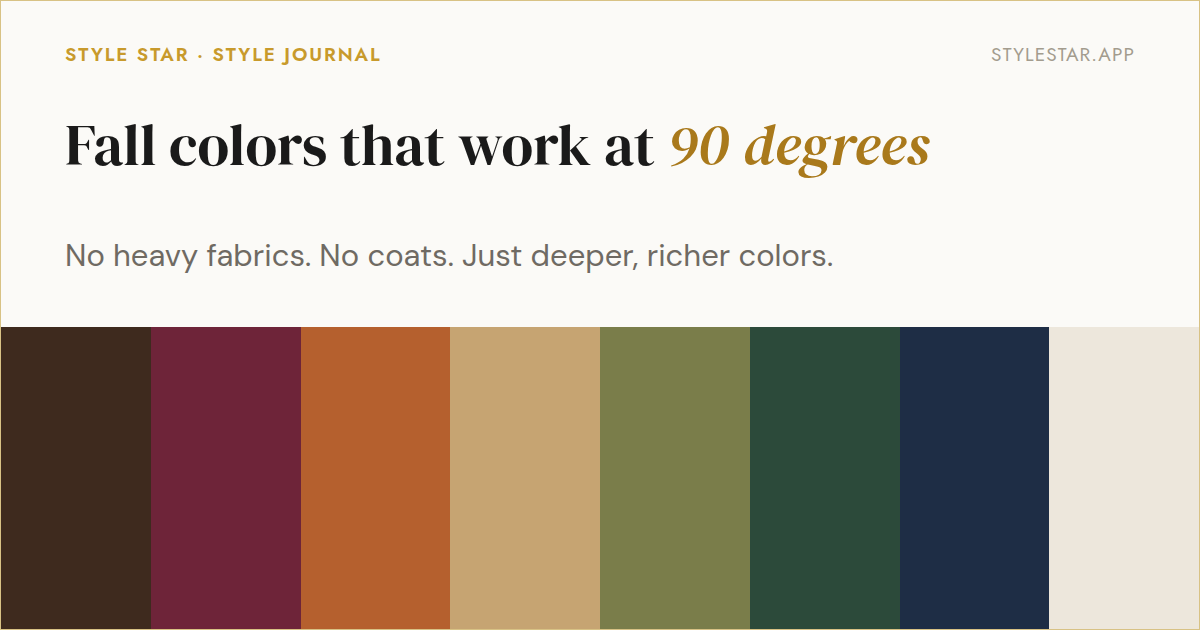
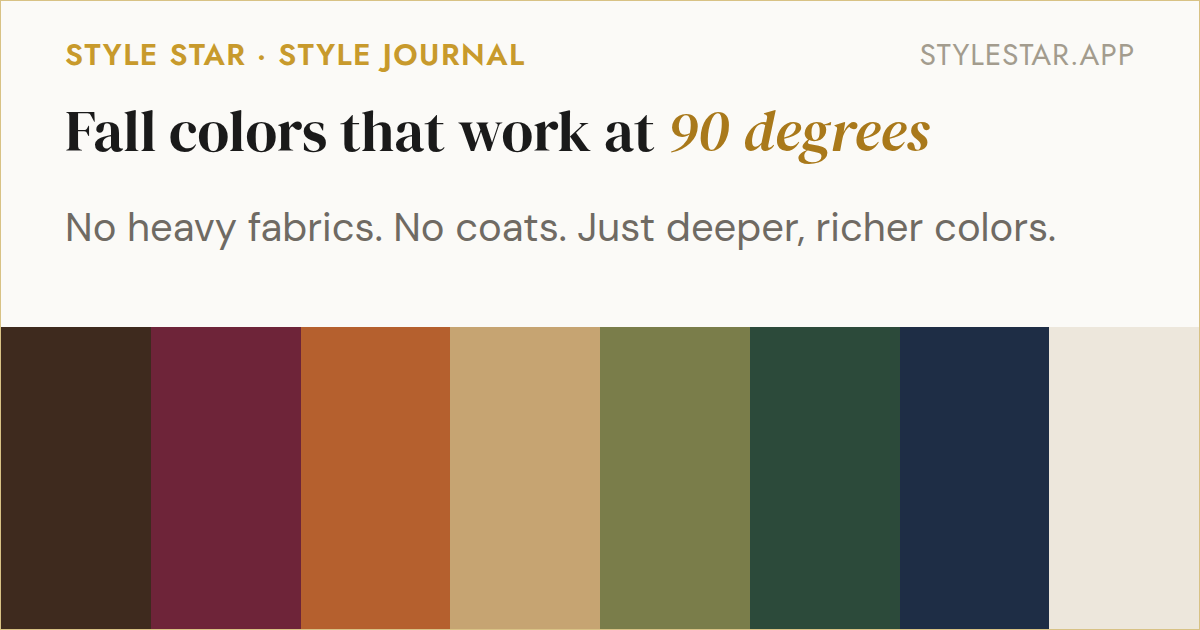
Substantially enlarge the top labels and remaining text on both share cards
Her second look: the top branding row (STYLE STAR · STYLE JOURNAL / stylestar.app)
was still unreadable at 19px, and the sub-lines and slider text on the personal-
style card still felt small even after the first pass.

Bumped hard this round rather than incrementally: top labels 19->30px, card 1's
sub-line 35->44px, slider category labels 19->28px, slider words 29->40px, card
2's sub-line 31->40px. Re-measured and re-laid out the slider block (tighter
gaps, not smaller text) so all three sliders fit inside the 630px card with 10px
to spare instead of clipping off the bottom, which is what a naive size bump did
on the first attempt.

Verified the same way as before: downscaled the actual rendered PNG to 278px
wide, the real width these show at on the article page, and confirmed every
word - including the top labels - reads clearly at that size, not just in the
full 1200px preview.

Claude-Session: https://claude.ai/code/session_01WUZ1Tmh4cbq1RRcXZfVcnT

diff --git a/scratchpad/ogcards/card1-spectrum.html b/scratchpad/ogcards/card1-spectrum.html
@@ -10,23 +10,23 @@
 *{margin:0;padding:0;box-sizing:border-box}
 html,body{width:1200px;height:630px;background:#FBFAF7;font-family:'DM Sans',sans-serif;overflow:hidden}
 .card{width:1200px;height:630px;background:#FBFAF7;border:1px solid #D8C285;position:relative}
-.top{position:absolute;top:40px;left:64px;right:64px;display:flex;justify-content:space-between;align-items:baseline}
-.lbl-l{font-family:'Jost';font-weight:600;font-size:19px;letter-spacing:.1em;color:#C89A2C;text-transform:uppercase}
-.lbl-r{font-family:'Jost';font-weight:400;font-size:19px;letter-spacing:.06em;color:#a39c8e;text-transform:uppercase}
-.headline{position:absolute;top:112px;left:64px;right:64px;font-family:'DM Serif Display',serif;font-weight:400;font-size:64px;color:#1a1a1a;line-height:1.08}
+.top{position:absolute;top:32px;left:64px;right:64px;display:flex;justify-content:space-between;align-items:baseline}
+.lbl-l{font-family:'Jost';font-weight:600;font-size:30px;letter-spacing:.05em;color:#C89A2C;text-transform:uppercase}
+.lbl-r{font-family:'Jost';font-weight:500;font-size:30px;letter-spacing:.03em;color:#a39c8e;text-transform:uppercase}
+.headline{position:absolute;top:98px;left:64px;right:64px;font-family:'DM Serif Display',serif;font-weight:400;font-size:64px;color:#1a1a1a;line-height:1.08}
 .headline i{font-style:italic;color:#a9791b}
-.sub{position:absolute;top:232px;left:64px;right:64px;font-family:'DM Sans',sans-serif;font-weight:500;font-size:35px;color:#6f6a63}
-.sliders{position:absolute;top:320px;left:64px;right:64px}
-.slider{margin-bottom:22px}
+.sub{position:absolute;top:202px;left:64px;right:64px;font-family:'DM Sans',sans-serif;font-weight:500;font-size:44px;color:#6f6a63}
+.sliders{position:absolute;top:272px;left:64px;right:64px}
+.slider{margin-bottom:10px}
 .slider:last-child{margin-bottom:0}
-.slabel{font-family:'Jost';font-weight:600;font-size:19px;letter-spacing:.08em;color:#C89A2C;text-transform:uppercase;margin-bottom:13px}
+.slabel{font-family:'Jost';font-weight:600;font-size:28px;letter-spacing:.06em;color:#C89A2C;text-transform:uppercase;margin-bottom:10px}
 .srow{display:flex;align-items:center}
-.sword{font-family:'Jost';font-weight:600;font-size:29px;letter-spacing:.02em;color:#2a2620;text-transform:uppercase;white-space:nowrap}
-.sword.left{margin-right:24px}
-.sword.right{margin-left:24px}
+.sword{font-family:'Jost';font-weight:600;font-size:40px;letter-spacing:.01em;color:#2a2620;text-transform:uppercase;white-space:nowrap}
+.sword.left{margin-right:22px}
+.sword.right{margin-left:22px}
 .track{flex:1;height:2px;background:#E4DCC8;position:relative}
-.tick{position:absolute;top:-5px;width:2px;height:12px;background:#E4DCC8}
-.dot{position:absolute;top:-10px;width:22px;height:22px;border-radius:50%;background:#C89A2C;transform:translateX(-50%)}
+.tick{position:absolute;top:-6px;width:2px;height:14px;background:#E4DCC8}
+.dot{position:absolute;top:-12px;width:26px;height:26px;border-radius:50%;background:#C89A2C;transform:translateX(-50%)}
 </style></head>
 <body>
 <div class="card">

diff --git a/scratchpad/ogcards/card2-palette.html b/scratchpad/ogcards/card2-palette.html
@@ -9,12 +9,12 @@
 *{margin:0;padding:0;box-sizing:border-box}
 html,body{width:1200px;height:630px;background:#FBFAF7;font-family:'DM Sans',sans-serif;overflow:hidden}
 .card{width:1200px;height:630px;background:#FBFAF7;border:1px solid #D8C285;position:relative;overflow:hidden}
-.top{position:absolute;top:40px;left:64px;right:64px;display:flex;justify-content:space-between;align-items:baseline}
-.lbl-l{font-family:'Jost';font-weight:600;font-size:19px;letter-spacing:.1em;color:#C89A2C;text-transform:uppercase}
-.lbl-r{font-family:'Jost';font-weight:400;font-size:19px;letter-spacing:.06em;color:#a39c8e;text-transform:uppercase}
-.headline{position:absolute;top:112px;left:64px;right:64px;font-family:'DM Serif Display',serif;font-weight:400;font-size:58px;color:#1a1a1a;line-height:1.1}
+.top{position:absolute;top:32px;left:64px;right:64px;display:flex;justify-content:space-between;align-items:baseline}
+.lbl-l{font-family:'Jost';font-weight:600;font-size:30px;letter-spacing:.05em;color:#C89A2C;text-transform:uppercase}
+.lbl-r{font-family:'Jost';font-weight:500;font-size:30px;letter-spacing:.03em;color:#a39c8e;text-transform:uppercase}
+.headline{position:absolute;top:98px;left:64px;right:64px;font-family:'DM Serif Display',serif;font-weight:400;font-size:58px;color:#1a1a1a;line-height:1.1}
 .headline i{font-style:italic;color:#a9791b}
-.sub{position:absolute;top:234px;left:64px;right:64px;font-family:'DM Sans',sans-serif;font-weight:500;font-size:31px;color:#6f6a63}
+.sub{position:absolute;top:200px;left:64px;right:64px;font-family:'DM Sans',sans-serif;font-weight:500;font-size:40px;color:#6f6a63}
 .bands{position:absolute;top:326px;left:0;right:0;bottom:0;display:flex}
 .band{flex:1}
 </style></head>
